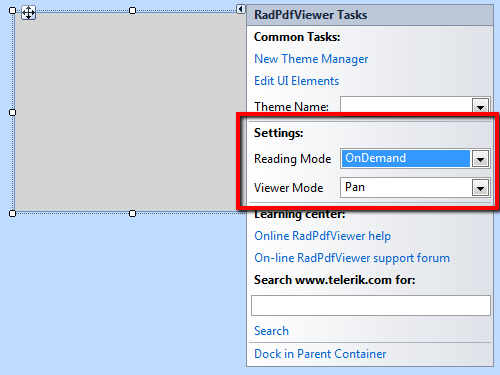
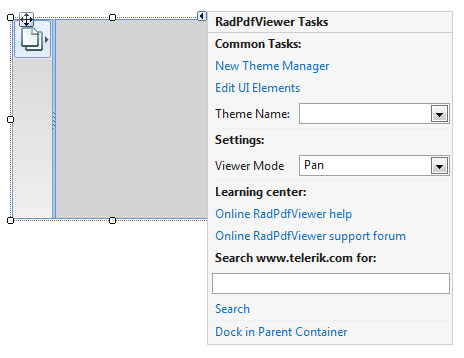
Modified PDFViewer >> Getting started article

diff --git a/pdfviewer/getting-started.md b/pdfviewer/getting-started.md
@@ -15,25 +15,14 @@ position: 0
 
 | RELATED VIDEOS |  |
 | ------ | ------ |
-|[Getting Started with the WinForms RadPdfViewer](http://tv.telerik.com/watch/radcontrols-for-winforms/getting-started-with-the-winforms-radpdfviewer)RadPdfViewer enables you to easily load and display PDF documents natively in your app without
-              using any third-party tools except Telerik’s WinForms toolbox. Thanks to its built-in UI virtualization,
-              RadPdfViewer delivers a performant solution in every scenario. This component will come as a nice addition
-              to your Content Management Systems and Reporting applications, let’s see what RadPdfViewer provides as a feature set.|![pdfviewer-getting-started 003](images/pdfviewer-getting-started003.png)|
+|[Getting Started with the WinForms RadPdfViewer](http://tv.telerik.com/watch/radcontrols-for-winforms/getting-started-with-the-winforms-radpdfviewer)RadPdfViewer enables you to easily load and display PDF documents natively in your app without using any third-party tools except Telerik’s WinForms toolbox. Thanks to its built-in UI virtualization, RadPdfViewer delivers a performant solution in every scenario. This component will come as a nice addition to your Content Management Systems and Reporting applications, let’s see what RadPdfViewer provides as a feature set.|![pdfviewer-getting-started 003](images/pdfviewer-getting-started003.png)|
 
 ## 
 
-This article will help you quickly get started with RadPdfViewer. To start off, drag and drop a RadPdfViewer control from the toolbox to your form.
-          Open its smart tag menu and you will find two important settings: __ReadingMode__ and __ViewerMode__.
-        ![pdfviewer-getting-started 001](images/pdfviewer-getting-started001.png)
+This article will help you quickly get started with RadPdfViewer. To start off, drag and drop a RadPdfViewer control from the toolbox to your form. Open its smart tag menu and you will find the __ViewerMode__ setting.
+![pdfviewer-getting-started 001](images/pdfviewer-getting-started001.png)
 
-The __ReadingMode__ defines how the contents a document will be read. AllAtOnce means that all the content will be loaded initially. 
-          As a result the initial loading time might be increased but the initial render time of a page will be shorter. __OnDemand__ means 
-          that the contents of the page will be loaded when it initially comes into view. This will result in fast initial loading of the document but slower 
-          initial page rendering. Also, the initial memory footprint will be less.
-        
-
-The __ViewerMode__ specifies the behavior of RadPdfViewer when you left-click in the document and drag across the document.
-          There are three viewer modes:
+The __ViewerMode__ specifies the behavior of RadPdfViewer when you left-click in the document and drag across the document. There are three viewer modes:
         
 
 * *None* - the control does nothing
@@ -45,7 +34,7 @@ The __ViewerMode__ specifies the behavior of RadPdfViewer when you left-click in
 * *TextSelection* - selection is initiated, which stops when you release the button of the mouse
             
 
-There are also properties for the above settings which you can set in your code:#_[C#] _
+There is also a property for the above setting which you can set in your code:#_[C#] _
 
 	
 
@@ -56,12 +45,12 @@ There are also properties for the above settings which you can set in your code:
 
 ````C#
 
-            this.radPdfViewer1.ReadingMode = ReadingMode.OnDemand;
+            //this.radPdfViewer1.ReadingMode = ReadingMode.OnDemand;
             this.radPdfViewer1.ViewerMode = FixedDocumentViewerMode.TextSelection;
 ````
 ````VB.NET
 
-        Me.RadPdfViewer1.ReadingMode = ReadingMode.OnDemand
+        'Me.RadPdfViewer1.ReadingMode = ReadingMode.OnDemand
         Me.RadPdfViewer1.ViewerMode = FixedDocumentViewerMode.TextSelection
 
         '
